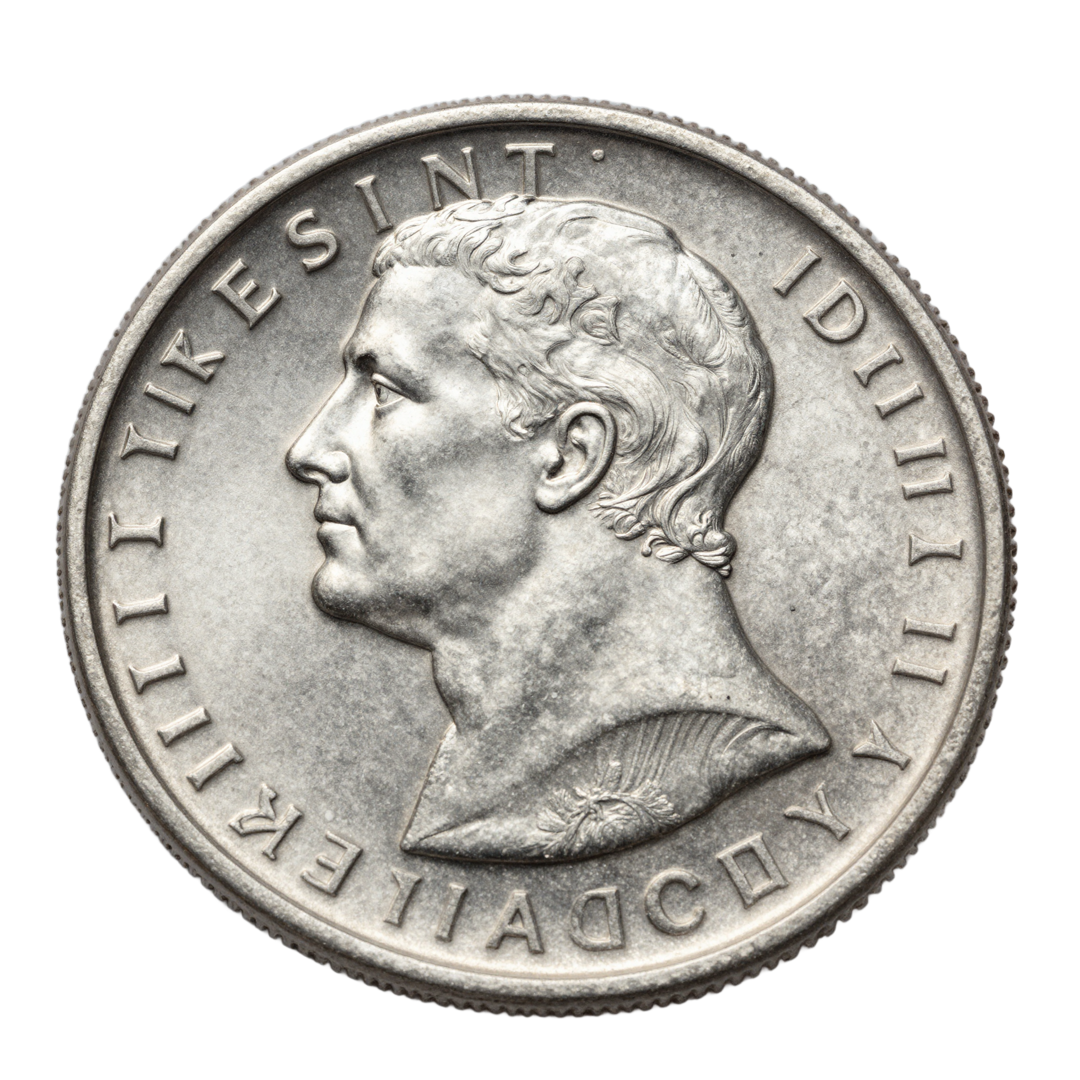
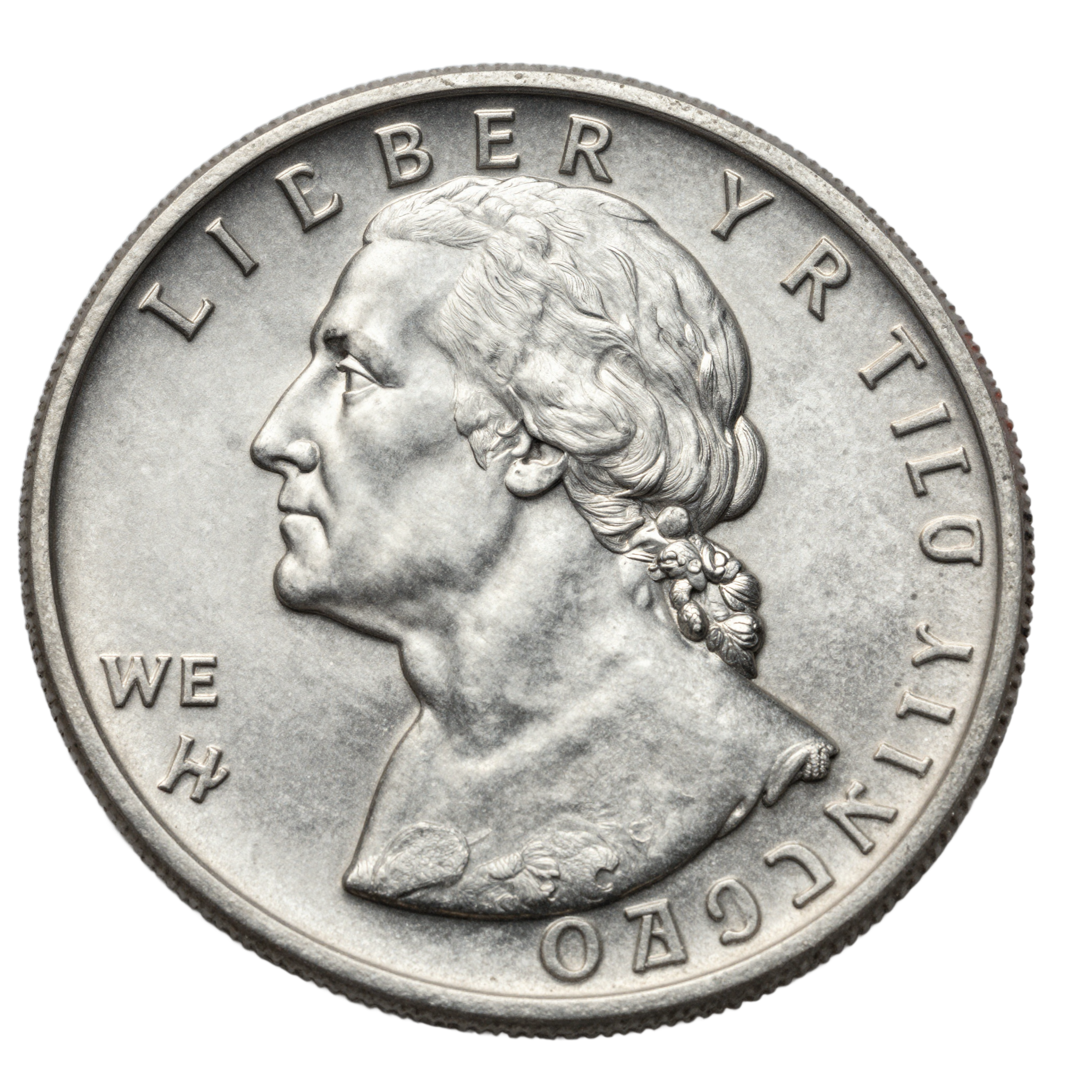
feat(home): George Washington quarter + Old Vegas palette + bigger CCW coin + tube drop-in
- Coin asset: regenerate as a recognizable George Washington quarter (Higgsfield + bg removal)
- 'Old Vegas' palette: cream canvas + vintage-sign red/cyan/orange/sky color blooms;
  flip text to dark ink, glass to light-frosted, nav CTA to Vegas orange, tube to cyan glass
- Bigger coin (hero 88vh, tube coin 124u) rotating counter-clockwise
- Hero drop-in: the big coin rolls from off bottom-right to top-centre (the tube entry),
  shrinking + fading so it 'deposits' into the machine; tube starts where it lands

diff --git a/app/components/chip/chip.module.css b/app/components/chip/chip.module.css
@@ -38,14 +38,29 @@
 .coinLogoText { color: #e7e7ea; font-weight: 700; letter-spacing: 0.04em; }
 
 /* ── Layout: cinema scroll container + reduced-motion stacked layout ── */
-.cinemaRoot, .staticRoot { position: relative; color: #f4f4f5; background: #07070b; }
+/* "Old Vegas" palette: cream canvas + vintage-sign red / cyan / orange / sky. */
+.cinemaRoot, .staticRoot {
+  position: relative;
+  --cream: #fbf3db;
+  --ink: #1b1c22;
+  --red: #fa1007;
+  --cyan: #05abd0;
+  --orange: #f99a0b;
+  --sky: #b1edf9;
+  color: var(--ink);
+  background: var(--cream);
+}
 /* Fixed page backdrop sits BEHIND the travelling coin (which sits behind the copy):
    backdrop (z0) < coin (z1) < beats + text (z2). */
 .pageBackdrop {
   position: fixed; inset: 0; z-index: 0; pointer-events: none;
+  /* Cream canvas with soft Vegas-color light blooms in the corners. */
   background:
-    radial-gradient(70% 60% at 78% 82%, rgba(247, 183, 51, 0.14) 0%, rgba(124, 58, 6, 0.05) 34%, rgba(7, 7, 11, 0) 64%),
-    linear-gradient(180deg, #05060a 0%, #0a0b12 58%, #0d0e16 100%);
+    radial-gradient(46% 40% at 84% 16%, rgba(250, 16, 7, 0.16) 0%, rgba(250, 16, 7, 0) 60%),
+    radial-gradient(48% 42% at 12% 30%, rgba(5, 171, 208, 0.16) 0%, rgba(5, 171, 208, 0) 60%),
+    radial-gradient(54% 46% at 78% 84%, rgba(249, 154, 11, 0.18) 0%, rgba(249, 154, 11, 0) 62%),
+    radial-gradient(50% 44% at 22% 88%, rgba(177, 237, 249, 0.30) 0%, rgba(177, 237, 249, 0) 60%),
+    var(--cream);
 }
 /* Proper skip link: visually hidden until focused (no longer a persistent pill over the copy). */
 .skip {
@@ -92,20 +107,28 @@
   max-width: min(600px, 58vw);
 }
 .heroTitle { font-size: clamp(40px, 8vw, 104px); font-weight: 800; line-height: 0.98; letter-spacing: -0.02em; }
-/* Big hero quarter bleeding off the bottom-right, slow idle spin. */
-.heroCoin {
+/* Big hero quarter: the wrap is scroll-positioned (rolls to centre + deposits into
+   the tube); the inner coin spins counter-clockwise. */
+.heroCoinWrap {
   position: absolute;
   z-index: 0;
-  right: -10vw;
-  bottom: -24vh;
-  width: 70vh;
-  height: 70vh;
+  left: 50%;
+  top: 50%;
+  width: 88vh;
+  height: 88vh;
+  margin-left: -44vh;
+  margin-top: -44vh;
+  will-change: transform;
+}
+.heroCoin {
+  width: 100%;
+  height: 100%;
   background: url(/images/chip/quarter.png) center / cover no-repeat;
   border-radius: 50%;
-  filter: drop-shadow(0 30px 60px rgba(0, 0, 0, 0.55));
-  animation: heroSpin 16s linear infinite;
+  filter: drop-shadow(0 26px 60px rgba(0, 0, 0, 0.35));
+  animation: heroSpinCcw 15s linear infinite;
 }
-@keyframes heroSpin { to { transform: rotate(360deg); } }
+@keyframes heroSpinCcw { to { transform: rotate(-360deg); } }
 @media (prefers-reduced-motion: reduce) {
   .heroCoin { animation: none; }
 }

diff --git a/app/components/chip/glass/glass.module.css b/app/components/chip/glass/glass.module.css
@@ -19,9 +19,8 @@
   inset: 0;
   z-index: 1;
   border-radius: inherit;
-  /* Dark frosted tint with a light top sheen — keeps text legible over BOTH the dark
-     background and the bright coin, while staying see-through enough to refract. */
-  background: linear-gradient(160deg, rgba(255, 255, 255, 0.14) 0%, rgba(14, 15, 22, 0.34) 46%, rgba(14, 15, 22, 0.42) 100%);
+  /* Light frosted glass for the cream "Old Vegas" canvas — white-ish + see-through. */
+  background: linear-gradient(160deg, rgba(255, 255, 255, 0.62) 0%, rgba(255, 255, 255, 0.36) 52%, rgba(255, 255, 255, 0.5) 100%);
 }
 .glassEdge {
   position: absolute;
@@ -30,10 +29,10 @@
   border-radius: inherit;
   pointer-events: none;
   box-shadow:
-    inset 0 1px 0 rgba(255, 255, 255, 0.65),
-    inset 0 0 0 1px rgba(255, 255, 255, 0.14),
-    inset 0 -14px 34px rgba(0, 0, 0, 0.22),
-    0 24px 60px rgba(0, 0, 0, 0.42);
+    inset 0 1px 0 rgba(255, 255, 255, 0.95),
+    inset 0 0 0 1px rgba(255, 255, 255, 0.55),
+    inset 0 -16px 30px rgba(20, 20, 30, 0.06),
+    0 18px 44px rgba(20, 20, 30, 0.16);
 }
 .glassContent {
   position: relative;
@@ -61,7 +60,7 @@
   font-weight: 800;
   font-size: 18px;
   letter-spacing: -0.01em;
-  color: #fff;
+  color: #16171c;
   text-decoration: none;
   padding-right: 6px;
 }
@@ -78,7 +77,7 @@
   appearance: none;
   background: transparent;
   border: 0;
-  color: rgba(255, 255, 255, 0.82);
+  color: rgba(22, 23, 28, 0.78);
   font: inherit;
   font-size: 15px;
   padding: 8px 14px;
@@ -90,8 +89,8 @@
 }
 .navItem:hover .navTrigger,
 .navItem:focus-within .navTrigger {
-  color: #fff;
-  background: rgba(255, 255, 255, 0.08);
+  color: #000;
+  background: rgba(0, 0, 0, 0.05);
 }
 .chev {
   font-size: 10px;
@@ -119,26 +118,27 @@
   display: block;
   padding: 10px 12px;
   border-radius: 12px;
-  color: rgba(255, 255, 255, 0.85);
+  color: rgba(22, 23, 28, 0.82);
   text-decoration: none;
   font-size: 14px;
 }
 .navMenuLink:hover {
-  background: rgba(255, 255, 255, 0.1);
-  color: #fff;
+  background: rgba(0, 0, 0, 0.06);
+  color: #000;
 }
 .navCta {
   margin-left: auto;
   padding: 10px 18px;
   border-radius: 999px;
-  background: #f7b733;
-  color: #1a1205;
-  font-weight: 700;
+  background: #f99a0b;
+  color: #2a1500;
+  font-weight: 800;
   font-size: 14px;
   text-decoration: none;
   white-space: nowrap;
+  box-shadow: 0 6px 16px rgba(249, 154, 11, 0.4);
 }
-.navCta:hover { background: #ffc94d; }
+.navCta:hover { background: #ffae2e; }
 
 @media (max-width: 720px) {
   .navLinks { display: none; }

diff --git a/app/components/chip/beats/SunBeat.tsx b/app/components/chip/beats/SunBeat.tsx
@@ -1,18 +1,37 @@
 'use client'
+import { motion, useTransform } from 'framer-motion'
 import styles from '../chip.module.css'
 import type { BeatProps } from './types'
 
-// Hero: big quarter bleeding off the bottom-right (Robinhood proportion) with a slow
-// idle spin (CSS). The coin then "drops into the machine" — the tube journey below.
-export default function SunBeat(_props: BeatProps) {
+export default function SunBeat({ progress, reduced }: BeatProps) {
+  // As you start scrolling, the big hero coin rolls from off the bottom-right to
+  // top-centre (the tube entry), shrinking + fading so it "drops into" the machine.
+  const x = useTransform(progress, [0, 0.12], ['33vw', '0vw'])
+  const y = useTransform(progress, [0, 0.12], ['30vh', '-34vh'])
+  const scale = useTransform(progress, [0, 0.12], [1, 0.16])
+  const coinOpacity = useTransform(progress, [0, 0.1, 0.135], [1, 1, 0])
+  const copyOpacity = useTransform(progress, [0, 0.07], [1, 0])
+
   return (
     <section className={styles.beat} aria-label="Fun Payments">
-      <div className={styles.heroCoin} aria-hidden />
-      <div className={`${styles.beatInner} ${styles.heroInner}`}>
+      {reduced ? (
+        <div className={styles.heroCoinWrap} aria-hidden>
+          <div className={styles.heroCoin} />
+        </div>
+      ) : (
+        <motion.div className={styles.heroCoinWrap} style={{ x, y, scale, opacity: coinOpacity }} aria-hidden>
+          <div className={styles.heroCoin} />
+        </motion.div>
+      )}
+
+      <motion.div
+        className={`${styles.beatInner} ${styles.heroInner}`}
+        style={reduced ? undefined : { opacity: copyOpacity }}
+      >
         <h1 className={styles.heroTitle}>Fun Payments.</h1>
         <p className={styles.sub}>It only takes a quarter.</p>
         <p className={styles.scrollCue} aria-hidden>scroll ↓</p>
-      </div>
+      </motion.div>
     </section>
   )
 }

diff --git a/app/components/chip/tube/tube.module.css b/app/components/chip/tube/tube.module.css
@@ -32,9 +32,10 @@
   stroke-linecap: round;
   stroke-linejoin: round;
 }
-.tubeWall { stroke: rgba(255, 255, 255, 0.10); stroke-width: 132; }
-.tubeRim { stroke: rgba(255, 255, 255, 0.16); stroke-width: 116; }
-.tubeChannel { stroke: rgba(8, 9, 16, 0.55); stroke-width: 104; }
+/* Vegas cyan glass pipe: light outer wall, translucent cyan channel, bright rim. */
+.tubeWall { stroke: rgba(5, 171, 208, 0.22); stroke-width: 168; }
+.tubeChannel { stroke: rgba(177, 237, 249, 0.5); stroke-width: 140; }
+.tubeRim { stroke: rgba(255, 255, 255, 0.7); stroke-width: 140; stroke-dasharray: 0; opacity: 0.0; }
 
 /* Glass info cards along the way. */
 .card {
@@ -43,8 +44,8 @@
   z-index: 5;
 }
 .cardBody { padding: 18px 20px; text-align: left; }
-.cardTitle { font-size: clamp(18px, 2.2vw, 26px); font-weight: 800; line-height: 1.05; color: #fff; }
-.cardBodyText { margin-top: 8px; font-size: 15px; color: rgba(255, 255, 255, 0.82); }
+.cardTitle { font-size: clamp(18px, 2.2vw, 26px); font-weight: 800; line-height: 1.05; color: #16171c; }
+.cardBodyText { margin-top: 8px; font-size: 15px; color: rgba(22, 23, 28, 0.72); }
 
 .topRight { top: 12vh; right: 6vw; }
 .left { top: 38vh; left: 6vw; }

diff --git a/app/components/chip/tube/TubeJourney.tsx b/app/components/chip/tube/TubeJourney.tsx
@@ -15,7 +15,7 @@ const TUBE =
 
 const VIEW_W = 1000
 const VIEW_H = 1360
-const COIN = 96 // coin diameter in viewBox units
+const COIN = 124 // coin diameter in viewBox units
 
 type Station = { key: string; at: number; pos: string; title: string; body: string }
 
@@ -42,7 +42,8 @@ export default function TubeJourney() {
     const len = path.getTotalLength()
     const t = Math.min(1, Math.max(0, (p - 0.04) / 0.9))
     const pt = path.getPointAtLength(t * len)
-    coin.setAttribute('transform', `translate(${pt.x} ${pt.y}) rotate(${t * 900})`)
+    // counter-clockwise roll as it travels down the tube
+    coin.setAttribute('transform', `translate(${pt.x} ${pt.y}) rotate(${-t * 900})`)
   }
   useEffect(() => { place(scrollYProgress.get()) }, []) // eslint-disable-line react-hooks/exhaustive-deps
   useMotionValueEvent(scrollYProgress, 'change', place)
